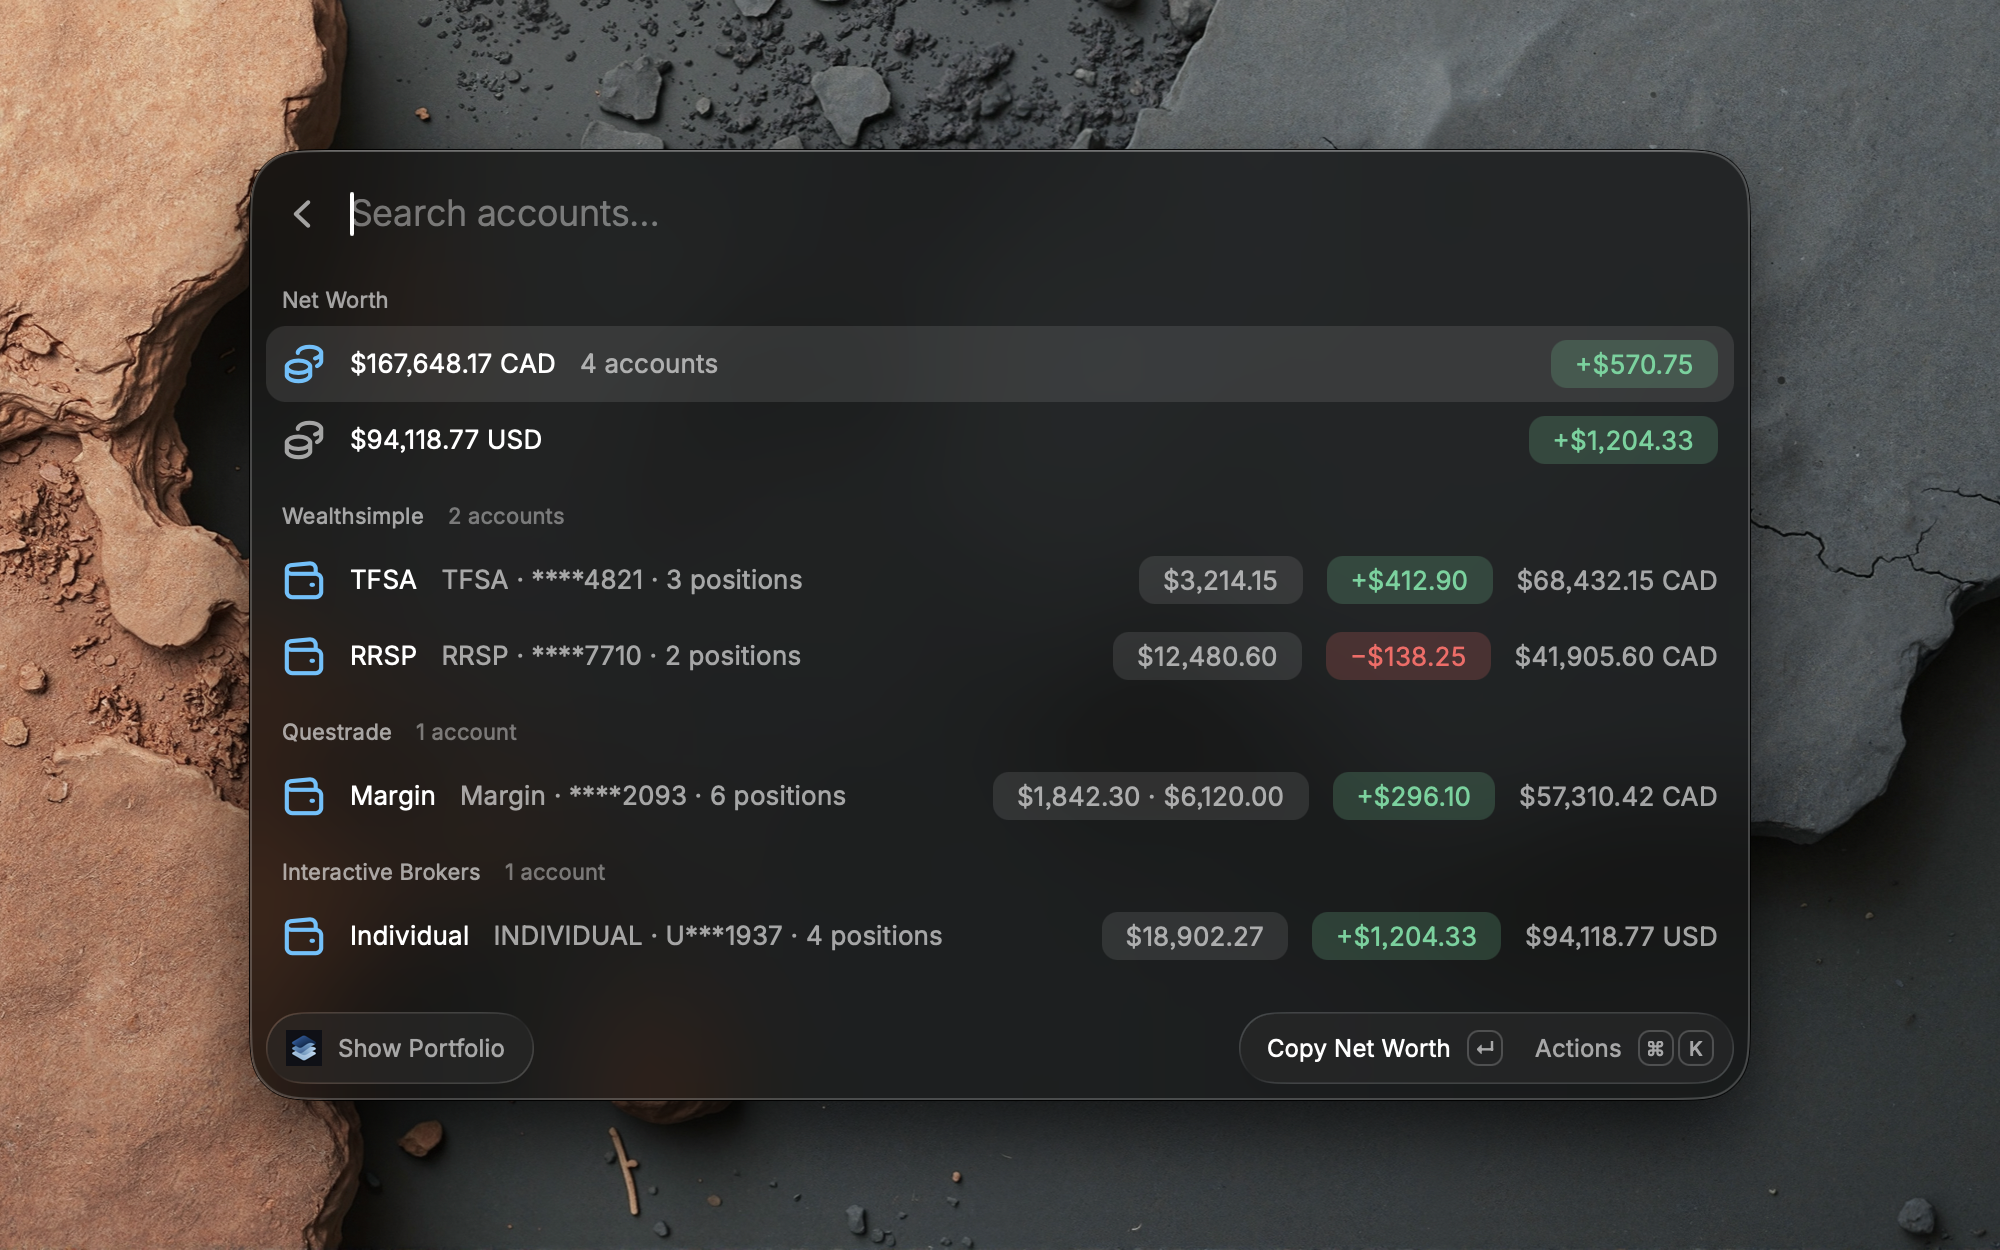
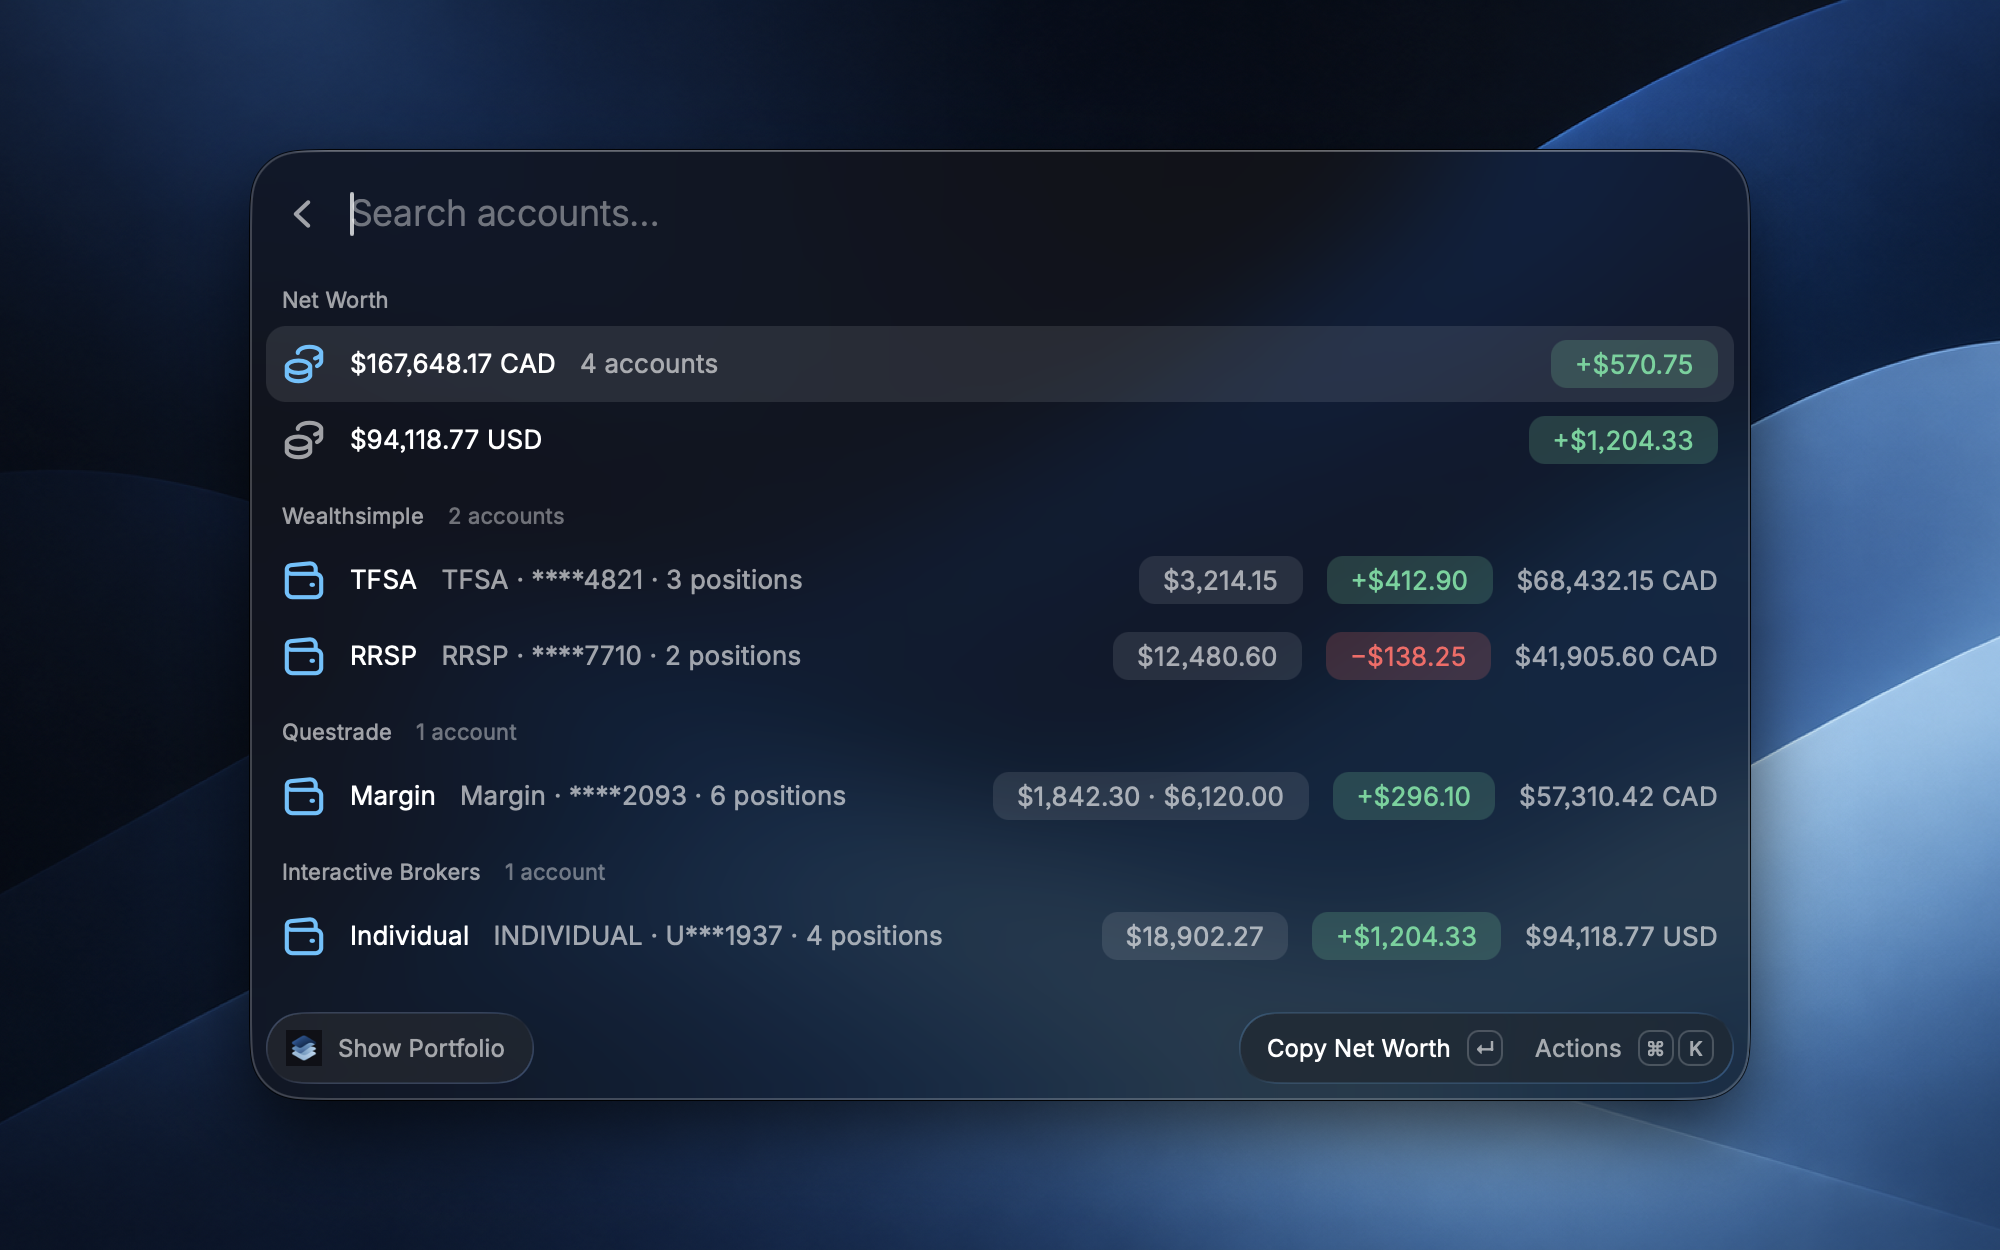
Screenshots: retaken on the new wallpaper, add Show Activities

diff --git a/README.md b/README.md
@@ -13,7 +13,9 @@ Works with Wealthsimple, Questrade, Interactive Brokers and every other brokerag
 
 ![Show Positions with the detail panel open](extension/metadata/folio-2.png)
 
-![Show Fog: idle cash and how long it has been sitting](extension/metadata/folio-3.png)
+![Show Activities: trades, dividends and deposits across accounts](extension/metadata/folio-3.png)
+
+![Show Fog: idle cash and how long it has been sitting](extension/metadata/folio-4.png)
 
 </details>
 
